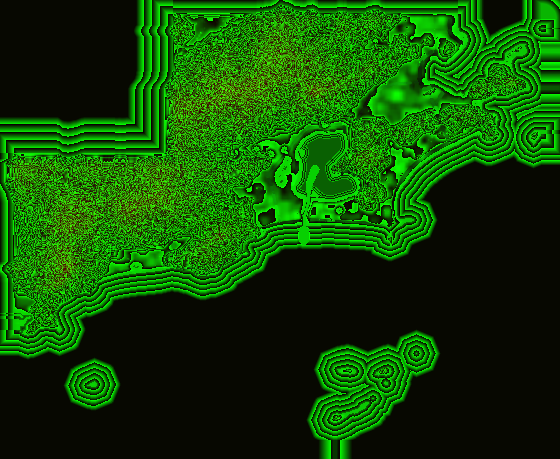
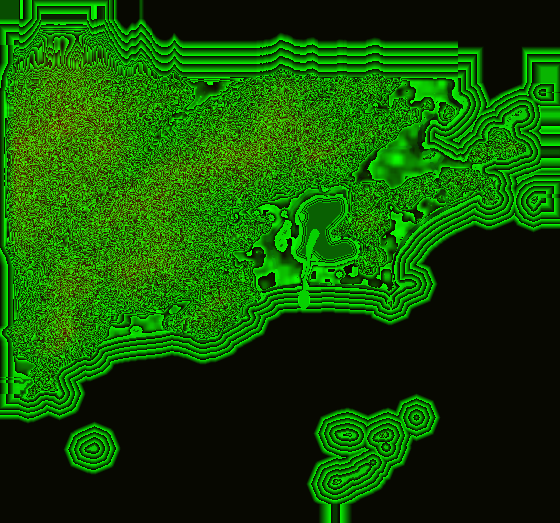
feat(zona-sul): maciço da Tijuca no vazio do mapa — Pico da Tijuca, Alto da Boa Vista, descida até a praia
Pedro 02/11 (print de cima): "a parte do mapa ali vazia, estranha — põe o Alto da Boa Vista, a descida pra Tijuca e
beira de praia igual o restante; lá em cima tem partes planas, dá pra pôr base; o Pico da Tijuca pega?".

- A faixa oeste entra INTEIRA (antes só ao sul de −22,972; o vazio era um paredão pro mar). Vêm o Pico da Tijuca
  (1001 m reais → ~207 m no jogo, o mais alto do mapa), Bico do Papagaio, Andaraí Maior e o Alto da Boa Vista, com a
  mata do OSM (Floresta da Tijuca).
- Borda norte do maciço ainda é morro (70–110 m no jogo) → a grade cresce NORTH_PX = 64 px (256 m) pro norte só pra uma
  DESCIDA LONGA até a praia (lado oeste: altura × 2,4, até 242 m; resto da borda norte: a de sempre, com transição).
- Nada do mapa de antes muda (antes × depois por coordenada: 0 px fora do maciço e da faixa norte). Pra isso as contas
  que olham vizinhança enxergam a borda norte como antes (as linhas novas repetem a borda): máscaras do mar/água/mata (a
  do mar por regiões ligava terra e mar por cima e virava tudo mar), ruas, escultura dos picos e filtro da baixada.
- No jogo: platô do Alto da Boa Vista ~700 m² quase planos (< 8°, 36 × 32 m, a ~72 m) — cabe base; praia no pé da
  descida norte; partida 957 → 976 mil triângulos (+2%), FPS na mesma faixa; criaturas/nós iguais.
- Teste gavea-cagarras: o maciço ENTROU (Pico da Tijuca > 190 m, Alto da Boa Vista ~70 m), descida sem paredão (≤ 40°,
  chega no mar), o norte cresceu só a faixa. Diário 02/11 §14 (+ túneis levantados).

diff --git a/src/components/zona-sul/zona-sul-meta.ts b/src/components/zona-sul/zona-sul-meta.ts
@@ -3,9 +3,9 @@
 // © OpenStreetMap contributors (ODbL). Coordenadas do jogo: x = leste, z = SUL, origem no centro do recorte de 28/10.
 /** x0/z0 = centro do 1º pixel em coordenadas do jogo (02/11: a grade cresceu pra oeste/sul — a origem segue no centro
  *  do recorte de 28/10, então o mapa não é mais centrado no (0, 0)). */
-export const ZS_TERRAIN = { url: '/zona-sul/terrain.png', w: 560, h: 459, cell: 4, offset: 30, scale: 7.4, x0: -1438, z0: -526 } as const;
+export const ZS_TERRAIN = { url: '/zona-sul/terrain.png', w: 560, h: 523, cell: 4, offset: 30, scale: 7.4, x0: -1438, z0: -782 } as const;
 export const ZS_SURF = {"land":0,"sea":1,"lagoon":2,"beach":3,"forest":4,"out":5,"road":6} as const;
 /** Ruas como textura do chão: R = cobertura, G = posição atravessada na pista. Retângulo em coordenadas do jogo. */
-export const ZS_ROAD_MASK = { url: '/zona-sul/roads-mask.png', x0: -1440, z0: -528, w: 2240, h: 1836 } as const;
+export const ZS_ROAD_MASK = { url: '/zona-sul/roads-mask.png', x0: -1440, z0: -784, w: 2240, h: 2092 } as const;
 export const ZS_SPAWN = {"x":90,"z":390,"name":"Praia do Arpoador"};
-export const ZS_LANDMARKS: { name: string; x: number; z: number; ele: number }[] = [{"name":"Pão de Açúcar","x":599.5,"z":-194.7,"ele":392},{"name":"Irmão Menor","x":-541.3,"z":399.1,"ele":439},{"name":"Morro dos Cabritos","x":28.7,"z":95.8,"ele":372},{"name":"Morro Dona Marta","x":41.7,"z":-259.7,"ele":364},{"name":"Alto do Sumaré","x":-427.1,"z":-177.3,"ele":753},{"name":"Corcovado","x":-154.3,"z":-157.9,"ele":710},{"name":"Pedra do Sapo","x":-269,"z":-106.5,"ele":351},{"name":"Morro do Mirante","x":-316.3,"z":-451.6,"ele":344},{"name":"Pedra do Bispo","x":-285,"z":-307,"ele":625},{"name":"Pedra do Cão","x":-352.8,"z":-126,"ele":518},{"name":"Alto das Paineiras","x":-231.6,"z":-227.8,"ele":532},{"name":"Alto da Coroa","x":-192.9,"z":-268.9,"ele":482},{"name":"Morro do Sumaré","x":-341.5,"z":-372.5,"ele":556},{"name":"Pico da Carioca Mirim","x":-582.6,"z":-189.5,"ele":648},{"name":"Alto da Embratel","x":-676.9,"z":-111.7,"ele":685},{"name":"Morro Sete Quedas","x":-459.2,"z":-72.2,"ele":552},{"name":"Morro do Andaime Pequeno","x":-456.3,"z":-143.4,"ele":699},{"name":"Pico da Carioca","x":-532.3,"z":-163.2,"ele":786},{"name":"Alto do Pai Ricardo","x":-631.3,"z":-31.2,"ele":423},{"name":"Irmão Maior","x":-557.1,"z":422.2,"ele":539},{"name":"Pedra do Maroca","x":-11.7,"z":102.1,"ele":378},{"name":"Pedra da Gávea","x":-1157,"z":544.9,"ele":844},{"name":"Pedra Bonita","x":-1172.5,"z":398.4,"ele":693},{"name":"Aguilhinha da Gávea","x":-1074.2,"z":350.5,"ele":610},{"name":"Pico dos Quatro","x":-1203.3,"z":609.4,"ele":678},{"name":"Morro da Bandeira","x":-1168.7,"z":469.7,"ele":601},{"name":"Pedra do Agassiz","x":-1228.7,"z":399.5,"ele":551},{"name":"Morro do Chapecó","x":-1180.8,"z":289.5,"ele":554},{"name":"Morro da Gávea Pequena","x":-1156.2,"z":298.5,"ele":547},{"name":"Dois Picos","x":-1096.7,"z":376.4,"ele":575},{"name":"Alto do Voo Livre","x":-1112.2,"z":406.6,"ele":524},{"name":"Morro do Cochrane","x":-920.7,"z":309.2,"ele":718},{"name":"Ponta das Andorinhas","x":-803.7,"z":248.5,"ele":675},{"name":"Morro do Laboriaux","x":-752,"z":313.9,"ele":474}];
+export const ZS_LANDMARKS: { name: string; x: number; z: number; ele: number }[] = [{"name":"Pão de Açúcar","x":599.5,"z":-194.7,"ele":392},{"name":"Irmão Menor","x":-541.3,"z":399.1,"ele":439},{"name":"Morro dos Cabritos","x":28.7,"z":95.8,"ele":372},{"name":"Morro Dona Marta","x":41.7,"z":-259.7,"ele":364},{"name":"Alto do Sumaré","x":-427.1,"z":-177.3,"ele":753},{"name":"Corcovado","x":-154.3,"z":-157.9,"ele":710},{"name":"Pedra do Sapo","x":-269,"z":-106.5,"ele":351},{"name":"Morro do Mirante","x":-316.3,"z":-451.6,"ele":344},{"name":"Pedra do Bispo","x":-285,"z":-307,"ele":625},{"name":"Pedra do Cão","x":-352.8,"z":-126,"ele":518},{"name":"Alto das Paineiras","x":-231.6,"z":-227.8,"ele":532},{"name":"Alto da Coroa","x":-192.9,"z":-268.9,"ele":482},{"name":"Morro do Sumaré","x":-341.5,"z":-372.5,"ele":556},{"name":"Pico da Carioca Mirim","x":-582.6,"z":-189.5,"ele":648},{"name":"Alto da Embratel","x":-676.9,"z":-111.7,"ele":685},{"name":"Morro Sete Quedas","x":-459.2,"z":-72.2,"ele":552},{"name":"Morro do Andaime Pequeno","x":-456.3,"z":-143.4,"ele":699},{"name":"Pico da Carioca","x":-532.3,"z":-163.2,"ele":786},{"name":"Alto do Pai Ricardo","x":-631.3,"z":-31.2,"ele":423},{"name":"Irmão Maior","x":-557.1,"z":422.2,"ele":539},{"name":"Pedra do Maroca","x":-11.7,"z":102.1,"ele":378},{"name":"Pedra da Gávea","x":-1157,"z":544.9,"ele":844},{"name":"Pedra Bonita","x":-1172.5,"z":398.4,"ele":693},{"name":"Aguilhinha da Gávea","x":-1074.2,"z":350.5,"ele":610},{"name":"Morro da Moganga","x":-819.5,"z":-89.4,"ele":557},{"name":"Pico dos Quatro","x":-1203.3,"z":609.4,"ele":678},{"name":"Pico da Tijuca","x":-1208.7,"z":-276.6,"ele":1021},{"name":"Pedra do Archer","x":-1272.3,"z":-185,"ele":817},{"name":"Morro do Queimado","x":-786.3,"z":-3.5,"ele":714},{"name":"Morro da Boa Vista","x":-889.3,"z":38.4,"ele":712},{"name":"Morro da Freira","x":-951.4,"z":62.6,"ele":622},{"name":"Morro da Bandeira","x":-1168.7,"z":469.7,"ele":601},{"name":"Pedra do Agassiz","x":-1228.7,"z":399.5,"ele":551},{"name":"Morro do Chapecó","x":-1180.8,"z":289.5,"ele":554},{"name":"Morro da Gávea Pequena","x":-1156.2,"z":298.5,"ele":547},{"name":"Dois Picos","x":-1096.7,"z":376.4,"ele":575},{"name":"Alto do Voo Livre","x":-1112.2,"z":406.6,"ele":524},{"name":"Morro do Cochrane","x":-920.7,"z":309.2,"ele":718},{"name":"Ponta das Andorinhas","x":-803.7,"z":248.5,"ele":675},{"name":"Morro do Laboriaux","x":-752,"z":313.9,"ele":474},{"name":"Alto dos Ciganos","x":-1341.7,"z":-341.5,"ele":568},{"name":"Alto do Santiago","x":-1352,"z":-198.1,"ele":922},{"name":"Pedra João Antônio","x":-1351.5,"z":-234.7,"ele":908},{"name":"Pico do Andaraí Maior","x":-1101.6,"z":-340.9,"ele":861},{"name":"Morro do Elefante","x":-1219.8,"z":-401.7,"ele":723},{"name":"Pico da Tijuca Mirim","x":-1171.1,"z":-313.2,"ele":920},{"name":"Pedra do Conde","x":-1032.7,"z":-203.6,"ele":819},{"name":"Divisor do Excelsior","x":-1057.6,"z":-284.8,"ele":690},{"name":"Excelsior","x":-1015.3,"z":-279.4,"ele":698},{"name":"Morro Redondo","x":-1037,"z":-435.4,"ele":529},{"name":"Morro do Felizardo","x":-969.2,"z":-345.7,"ele":533},{"name":"Colina da Crista","x":-884.2,"z":-430.7,"ele":328},{"name":"Morro do Borel","x":-823.9,"z":-349.8,"ele":320},{"name":"Morro do Almeida","x":-1166.9,"z":-34.5,"ele":537},{"name":"Alto da Bandeira","x":-1037.4,"z":-78.2,"ele":565},{"name":"Morro Tijuaçu","x":-1234.1,"z":113.1,"ele":504},{"name":"Morro de São Maron","x":-1127.9,"z":-448.3,"ele":651}];

diff --git a/src/test/gavea-cagarras.test.ts b/src/test/gavea-cagarras.test.ts
@@ -37,10 +37,28 @@ describe('Gávea + Cagarras — o que entrou', () => {
       expect(maxH(old, x, z, 80), nome).toBeLessThan(0);
     }
   });
-  it('o maciço da Tijuca (atrás da Gávea, fora desde 28/10) continua FORA: lá é a faixa que desce pro mar', () => {
-    expect(ZS_LANDMARKS.some((l) => l.name === 'Pico da Tijuca')).toBe(false);
-    expect(zsHeightAt(now, gx(-43.2867), gz(-22.9440))).toBeLessThan(0);
-    expect(zsSurfAt(now, gx(-43.2867), gz(-22.9440))).toBe(ZS_SURF.sea);
+  // 02/11 noite (Pedro, vendo o mapa de cima: "aquele vazio estranho — põe o Alto da Boa Vista, a descida pra Tijuca e
+  // beira de praia igual o restante"): o maciço da Tijuca ENTROU (até então ficava fora e o vazio era um paredão pro mar)
+  it('o maciço da Tijuca ENTROU: Pico da Tijuca (~200 m, o mais alto do mapa), Bico do Papagaio, platô do Alto da Boa Vista', () => {
+    expect(ZS_LANDMARKS.some((l) => l.name === 'Pico da Tijuca')).toBe(true);
+    expect(maxH(now, gx(-43.2853), gz(-22.9437), 40)).toBeGreaterThan(190);
+    expect(maxH(now, gx(-43.2754), gz(-22.9473), 40)).toBeGreaterThan(140);
+    const ab = zsHeightAt(now, gx(-43.2792), gz(-22.9660));          // Alto da Boa Vista: platô a ~70 m
+    expect(ab).toBeGreaterThan(55); expect(ab).toBeLessThan(90);
+    expect(zsSurfAt(now, gx(-43.2792), gz(-22.9660))).not.toBe(ZS_SURF.sea);
+  });
+  it('a borda norte do maciço DESCE até a praia (sem paredão): no máx. ~40° entre vizinhos, e chega no mar', () => {
+    const zEdge = gz(-22.932);
+    for (const lon of [-43.295, -43.285, -43.275, -43.265]) {
+      const x = gx(lon); let worst = 0, sea = false;
+      for (let z = zEdge; z > zEdge - 300; z -= 4) {
+        const a = zsHeightAt(now, x, z), b = zsHeightAt(now, x, z - 4);
+        if (a > 0.2) worst = Math.max(worst, (a - b) / 4);
+        if (zsSurfAt(now, x, z) === ZS_SURF.sea) { sea = true; break; }
+      }
+      expect(worst, `lon ${lon}`).toBeLessThan(Math.tan(40 * Math.PI / 180));
+      expect(sea, `lon ${lon}`).toBe(true);
+    }
   });
 });
 
@@ -73,7 +91,7 @@ describe('Gávea + Cagarras — sem mexer no que existe', () => {
   it('o (0, 0) e a partida no mesmo lugar; o meta traz o canto (mapa não é mais centrado); o mapa (M) e o mar cobrem tudo', () => {
     expect(ZS_SPAWN).toEqual({ x: 90, z: 390, name: 'Praia do Arpoador' });
     expect(zsSurfAt(now, ZS_SPAWN.x, ZS_SPAWN.z)).toBe(ZS_SURF.beach);
-    expect(ZS_TERRAIN.z0).toBe(old.z0);                 // o norte não mudou
+    expect(ZS_TERRAIN.z0).toBe(old.z0 - 64 * 4);        // o norte cresceu SÓ a faixa da descida do maciço (NORTH_PX)
     expect(ZS_TERRAIN.x0).toBeLessThan(old.x0 - 600);   // cresceu pra oeste
     expect(ZS_MAP_BOUNDS.minX).toBe(ZS_TERRAIN.x0);
     const { r0 } = zsSeaRadius(now);

diff --git a/docs/tribos/diarios/2026-11-02.md b/docs/tribos/diarios/2026-11-02.md
@@ -273,3 +273,26 @@ da onda~~ · ~~fuzil no navio/carro + save~~ · ~~roteiro do teste online~~
   firme (de espada e de fuzil), pés dando passo (até 0,16 m). Teste `agachado-andando` (2).
 - "Shooter Pack (1).zip" novo = o mesmo Shooter Pack de antes (16 arquivos iguais, sem agachar/deitar). Andar agachado DE
   FUZIL e deitar = Pro Rifle Pack.
+
+## 14. MACIÇO DA TIJUCA no vazio do mapa (Pedro, print de cima: "a parte vazia estranha — põe o Alto da Boa Vista, a
+## descida pra Tijuca e beira de praia igual o restante; o Pico da Tijuca pega?")
+- **Medido no relevo real antes de mexer:** o Pico da Tijuca está DENTRO do vazio (1001 m reais → **~203–207 m no
+  jogo**, o mais alto do mapa; Gávea ~160, Cristo ~130). Também Bico do Papagaio (164 m) e Andaraí Maior (120 m).
+  Platô do Alto da Boa Vista ~357 m reais → ~72 m no jogo. Lado leste do vazio desce pra Usina/Tijuca logo na borda;
+  lado oeste o maciço continua alto além da borda (330–535 m reais).
+- **Feito:** a faixa oeste entra INTEIRA (antes só ao sul de −22,972); a grade cresce `NORTH_PX` = 64 px (256 m) pro
+  norte SÓ pra uma **descida longa** até a praia (lado oeste: altura × 2,4, até 242 m; resto da borda norte: a descida de
+  sempre, com transição). Sem paredão: no máx. ~40° entre vizinhos (teste).
+- **Nada do que existia mudou** (provado antes × depois por coordenada: 0 px fora do maciço e da faixa norte). Achados
+  no caminho (todos corrigidos pra ficar idêntico): (1) a máscara do mar por regiões ligava terra e mar por cima (o mapa
+  virou mar — restaurado na hora, nada foi pro ar); (2) o nivelamento das ruas; (3) a escultura dos picos; (4) o filtro
+  da baixada — todos agora enxergam a borda norte do mapa de verdade como antes (as linhas novas repetem a borda).
+- **No jogo:** platô do Alto da Boa Vista com ~700 m² quase planos (< 8°; 36 × 32 m, a 71–73 m) — cabe base. Praia no pé
+  da descida norte com a mata subindo atrás. Vista de cima: o vazio virou o maciço com a Floresta da Tijuca.
+- **Custo:** partida 957 → 976 mil triângulos (+2%), FPS na mesma faixa (46–49 nessa máquina); 370 criaturas / 346 nós
+  (iguais). Teste `gavea-cagarras` (8): o maciço ENTROU, Alto da Boa Vista ~70 m, descida sem paredão, norte cresceu só
+  a faixa. 178 arquivos / 1248 testes, tsc limpo.
+- **Túneis (levantado, nada feito):** no OSM do mapa — Zuzu Angel (Gávea↔São Conrado, 218 m no jogo), Acústico (67),
+  Joá (2 × ~60, rumo à Barra), Velho (Copa↔Botafogo, 55), Novo (Princesa Isabel, Leme↔Botafogo, 34), Rebouças (268, a boca
+  da nossa caverna). **Barra:** fica depois do Joá — o mapa teria que crescer pra oeste; caverna até lá só se a Barra
+  entrar no mapa.
